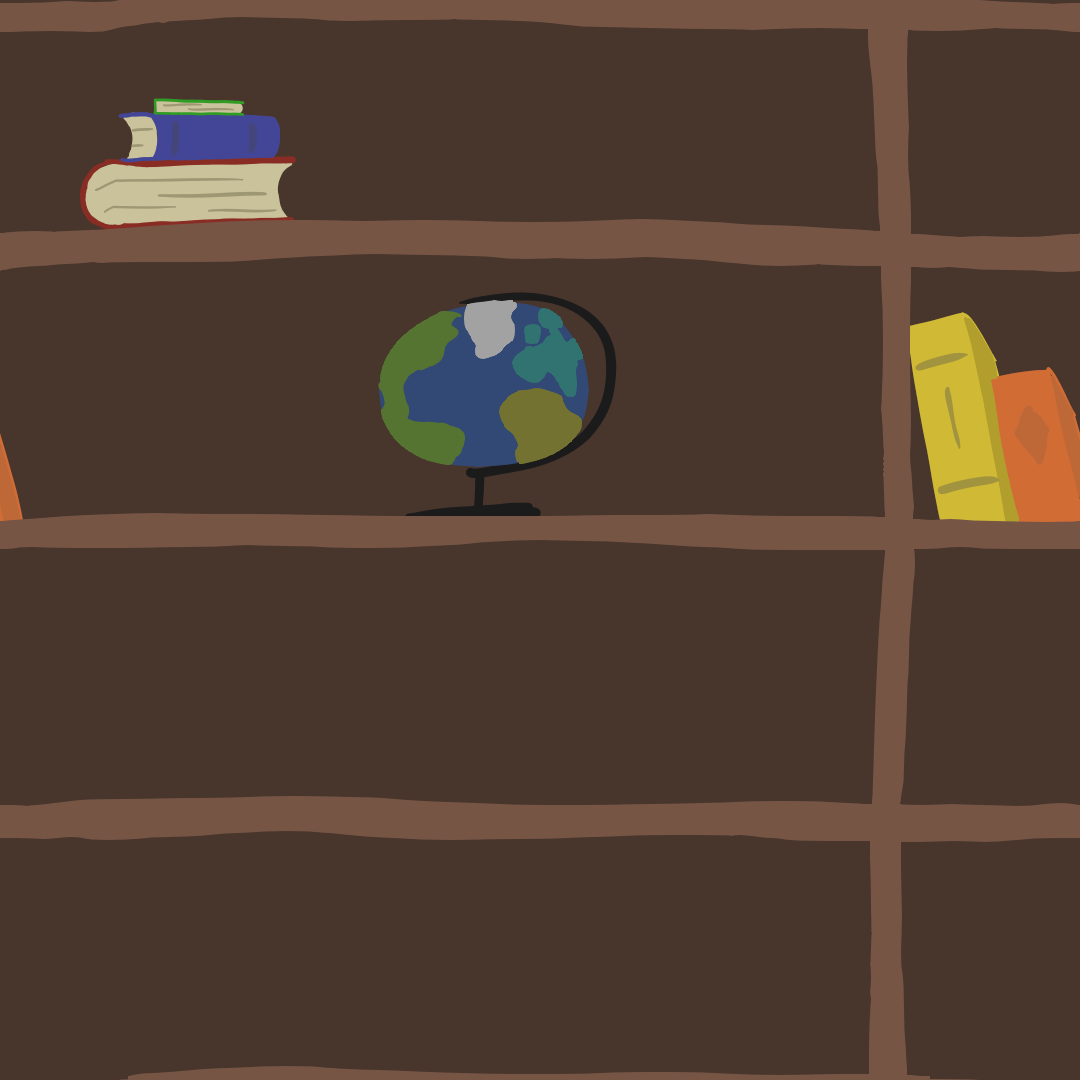
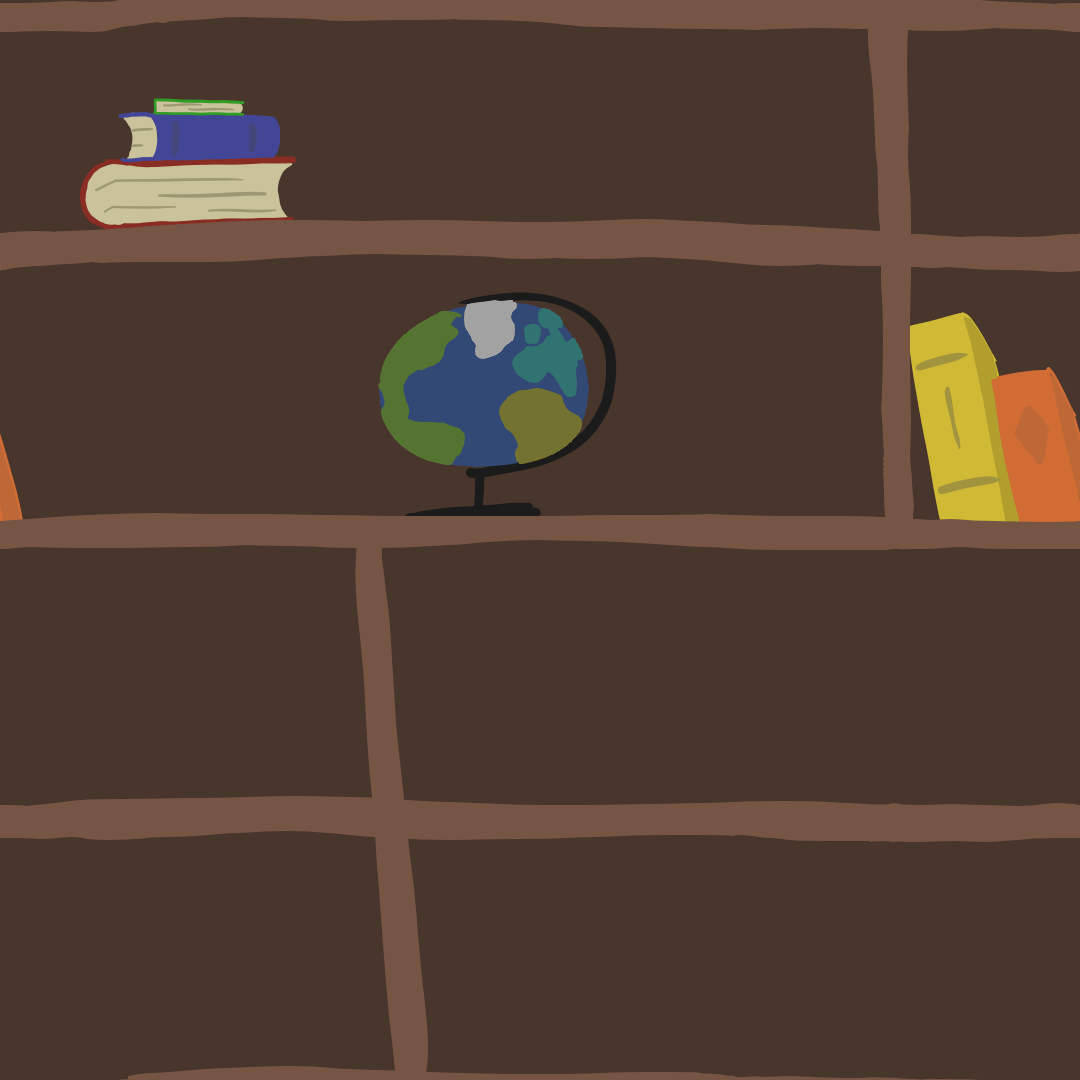
bg polish 2. Removed dim

Changed region(s): [[0.7639, 0.4889, 0.8556, 1.0], [0.3056, 0.4889, 0.3972, 1.0]]

diff --git a/src/components/BookcaseBackground.tsx b/src/components/BookcaseBackground.tsx
@@ -4,13 +4,14 @@ import { useAudio } from '../AudioContext';
 
 const BOOKCASE = require('../../assets/images/bookcase.png');
 const BOOKCASE_SIZE = Image.resolveAssetSource(BOOKCASE);
+const BACKGROUND_ZOOM = 1.35;
 
 /** Shared, gently scrolling bookcase backdrop for every app route. */
 export default function BookcaseBackground({ children }: { children: React.ReactNode }) {
   const { width, height } = useWindowDimensions();
   const { backgroundSpeed } = useAudio();
   const offset = useRef(new Animated.Value(0)).current;
-  const imageScale = Math.min(width, height) / Math.max(BOOKCASE_SIZE.width, BOOKCASE_SIZE.height);
+  const imageScale = (Math.min(width, height) / Math.max(BOOKCASE_SIZE.width, BOOKCASE_SIZE.height)) * BACKGROUND_ZOOM;
   const tileWidth = BOOKCASE_SIZE.width * imageScale;
   const tileHeight = BOOKCASE_SIZE.height * imageScale;
   const columns = Math.max(1, Math.ceil(width / tileWidth) + 1);

diff --git a/src/app/index.tsx b/src/app/index.tsx
@@ -25,8 +25,6 @@ export default function SplashScreen() {
     <TouchableWithoutFeedback onPress={handlePress}>
       <View style={styles.screenWrapper}>
         <BookcaseBackground>
-          <View style={styles.overlay} />
-
           <View style={styles.contentContainer}>
             <View style={styles.logoContainer}>
             <AnimatedLogoStack />
@@ -51,10 +49,6 @@ const styles = StyleSheet.create({
     flex: 1,
     width: '100%',
     height: '100%',
-  },
-  overlay: {
-    ...StyleSheet.absoluteFill,
-    backgroundColor: 'rgba(0, 0, 0, 0.3)',
   },
   contentContainer: {
     flex: 1,

diff --git a/src/app/game.tsx b/src/app/game.tsx
@@ -246,8 +246,6 @@ export default function GameScreen() {
 
   return (
     <BookcaseBackground>
-      <View style={styles.overlay} />
-
       <View style={styles.mainContainer}>
         {/* UPPER BOX: Turn Header Banner */}
         <View style={[styles.turnBanner, { backgroundColor: activePlayer.color }]}>
@@ -410,7 +408,6 @@ export default function GameScreen() {
 
 const styles = StyleSheet.create({
   bg: { flex: 1, width: '100%', height: '100%' },
-  overlay: { ...StyleSheet.absoluteFill, backgroundColor: 'rgba(0,0,0,0.65)' },
 
   mainContainer: {
     flex: 1,

diff --git a/src/app/mainmenu.tsx b/src/app/mainmenu.tsx
@@ -36,7 +36,6 @@ export default function MainMenuScreen() {
 
   return (
     <BookcaseBackground>
-      <View pointerEvents="none" style={styles.overlay} />
       <SafeAreaView style={styles.container}>
         <TouchableOpacity
           style={styles.debugButton}
@@ -95,12 +94,6 @@ const styles = StyleSheet.create({
     flex: 1,
     width: '100%',
     height: '100%',
-  },
-  overlay: {
-    position: 'absolute',
-    inset: 0,
-    zIndex: 1,
-    backgroundColor: 'rgba(0,0,0,0.3)',
   },
   container: {
     flex: 1,

diff --git a/src/components/SettingsScreen.jsx b/src/components/SettingsScreen.jsx
@@ -21,8 +21,6 @@ export default function SettingsScreen({ onReturnToMenu }) {
 
   return (
     <BookcaseBackground>
-      <View style={styles.overlay} />
-      
       <View style={styles.container}>
         {/* Header */}
         <View style={styles.header}>
@@ -186,10 +184,6 @@ const styles = StyleSheet.create({
     height: '100%',
     justifyContent: 'center',
     alignItems: 'center',
-  },
-  overlay: {
-    ...StyleSheet.absoluteFill,
-    backgroundColor: 'rgba(0,0,0,0.6)',
   },
   container: {
     width: '90%',

diff --git a/src/app/stats.tsx b/src/app/stats.tsx
@@ -13,7 +13,6 @@ export default function StatsScreen() {
 
 	return (
 		<BookcaseBackground>
-			<View style={styles.overlay} />
 			<SafeAreaView style={styles.container}>
 				<Text style={styles.title}>Stats screen</Text>
 				<Text style={styles.subtitle}>statter screener</Text>
@@ -32,10 +31,6 @@ export default function StatsScreen() {
 const styles = StyleSheet.create({
 	background: {
 		flex: 1,
-	},
-	overlay: {
-		...StyleSheet.absoluteFill,
-		backgroundColor: 'rgba(0, 0, 0, 0.55)',
 	},
 	container: {
 		flex: 1,

diff --git a/src/app/level-select.tsx b/src/app/level-select.tsx
@@ -123,7 +123,6 @@ const styles = StyleSheet.create({
   },
   container: {
     flex: 1,
-    backgroundColor: 'rgba(10, 12, 20, 0.65)',
   },
   scrollContent: {
     padding: PADDING,
